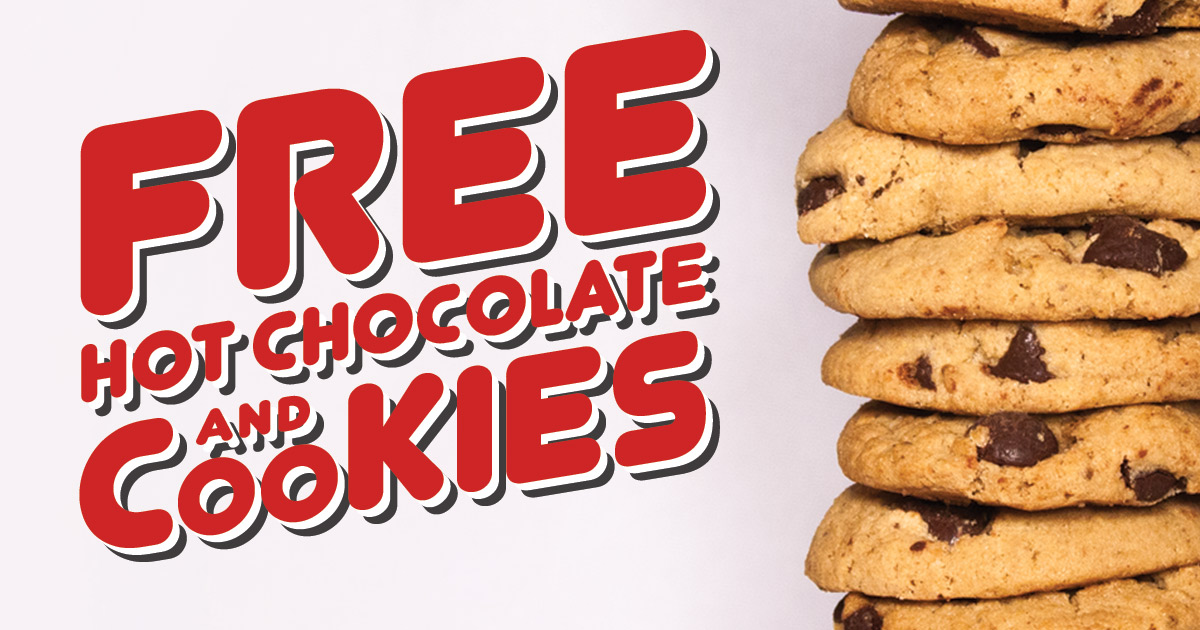
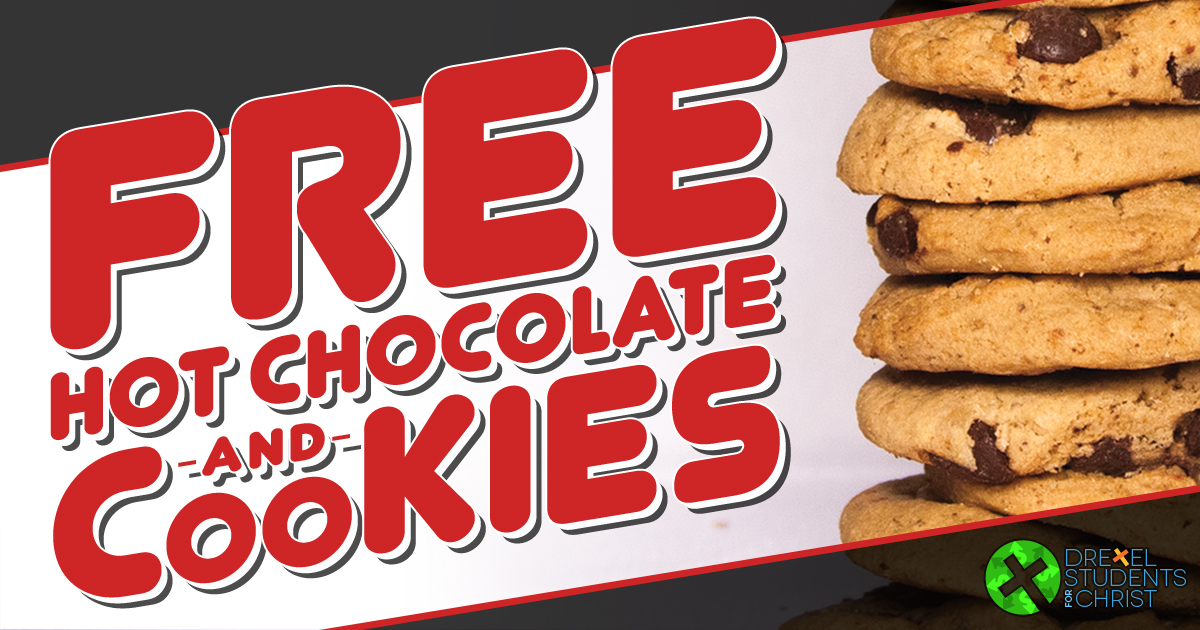
Update of cookie image and jpeg export quality bump.

diff --git a/facebook.php b/facebook.php
@@ -81,7 +81,7 @@ imagettftext($jpg_image, $size, 0, 30, 180, $white, $font_path, $title);
 }
 
 // Send Image to Browser
-imagejpeg($jpg_image);
+imagejpeg($jpg_image, null, 100);
 
 // Clear Memory
 imagedestroy($jpg_image);
